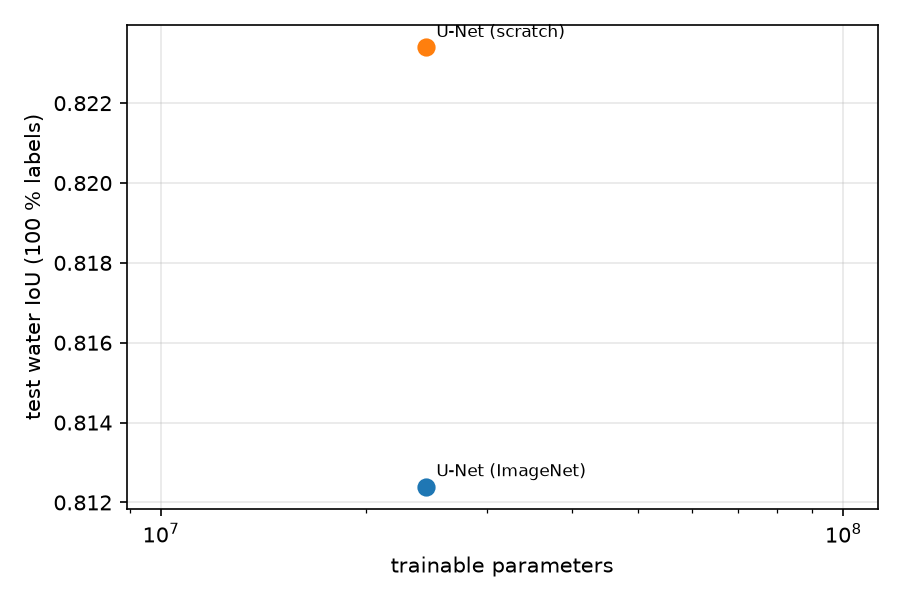
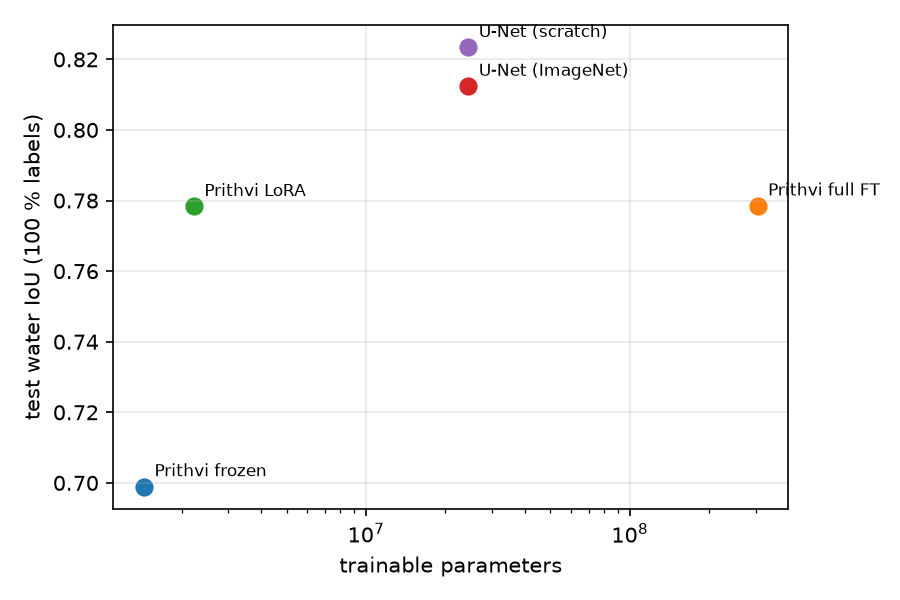
Prithvi label sweep (seed 0) results, figures and notes: U-Net leads at every label fraction

diff --git a/docs/LAB_NOTEBOOK.md b/docs/LAB_NOTEBOOK.md
@@ -67,3 +67,23 @@ Template:
 - Result (`prithvi_full` f=1.0 s0, 305 M trainable, batch 4, 7.2 GB, 1,575 steps, 9.0 GPU-min): **test water IoU 0.779, Bolivia 0.637**.
 - Reading: identical to LoRA in-distribution (0.778 vs 0.779) and 9 points worse on Bolivia. Claim 3 (LoRA recovers full-FT accuracy with <1 % of the parameters) holds at 100 % labels; full FT seems to overfit the training regions. Caveat: full FT ran at batch 4 with backbone lr x0.05, LoRA at batch 8 with x0.5; a small lr sweep for full FT would make the comparison airtight.
 - Full-label ranking (seed 0): U-Net scratch 0.823 > U-Net ImageNet 0.812 > Prithvi LoRA 0.778 = Prithvi full 0.779 > Prithvi frozen 0.699. On Bolivia: ImageNet 0.789 > scratch 0.750 > LoRA 0.725 > full 0.637 > frozen 0.527.
+
+## 2026-09-10, Prithvi label sweep complete (17 local runs, seed 0)
+- Result, test water IoU / Bolivia water IoU:
+
+  | labels | U-Net scratch | U-Net ImageNet | Prithvi frozen | Prithvi LoRA | Prithvi full |
+  |---|---|---|---|---|---|
+  | 100 % | 0.823 / 0.750 | 0.812 / 0.789 | 0.699 / 0.527 | 0.778 / 0.725 | 0.779 / 0.637 |
+  | 25 % | 0.777 / 0.758 | 0.803 / 0.722 | 0.699 / 0.755 | 0.751 / 0.744 | - |
+  | 10 % | 0.803 / 0.770 | 0.822 / 0.787 | 0.686 / 0.674 | 0.734 / 0.751 | - |
+  | 5 % | 0.776 / 0.790 | 0.804 / 0.784 | 0.695 / 0.625 | 0.719 / 0.741 | - |
+
+- Reading (single seed, so ±0.02-0.03 is noise):
+  1. **Claim 1 holds strongly, in the negative direction:** at full labels the foundation model does not merely fail to beat the U-Net, it trails it by 4-5 points in every regime.
+  2. **Claim 2 does not hold down to 5 %:** the U-Net degrades by ~2-5 points from 100 % to 5 %, LoRA by ~6 points. The gap does not close, it widens slightly against Prithvi. On this dataset 13 chips still contain enough water pixels (~1 M) for a CNN.
+  3. **Claim 3 holds:** LoRA (2.2 M) equals full FT (305 M) in-distribution and beats it by 9 points on Bolivia.
+  4. **Claim 4 is unresolved:** Bolivia numbers fluctuate ±0.05 across label fractions for every model, larger than any between-model difference except frozen/full. Seeds 1-2 (running on Colab) are needed; the cloud confound (27 % no-data) probably dominates.
+- Cost: U-Net 3.7-4.5 GPU-min, frozen 9-10, LoRA 13-14, full 9 (batch 4) on the 3070 Ti.
+- Honest framing for the paper: "a small, well-tuned CNN remains the better choice for Sentinel-2 flood mapping on Sen1Floods11, even with 13 labeled chips; the foundation model's advantage, if any, must lie below 5 % labels or in cross-sensor / cross-region transfer that this benchmark does not test." That is a publishable negative result if the seeds and a 1-2 % sweep confirm it, and it is more useful to practitioners than a marginal win.
+- Caveats to close before writing: (a) Prithvi head is a plain FCN on a 14x14 grid; a UNet-style decoder over multiple scales might recover part of the gap (ablation); (b) LoRA rank / targets untested; (c) Prithvi crop 224 vs U-Net crop 224 is matched, but Prithvi's positional grid was pretrained at 224 so this is its comfort zone, not a handicap; (d) dataset-vs-Prithvi normalization stats.
+- Next: seeds from Colab; add fractions 0.02 / 0.01 (needs the batch-size guard); decoder ablation for Prithvi.

diff --git a/README.md b/README.md
@@ -21,8 +21,8 @@ The experiment matrix is fixed up front (see [docs/PLAN.md](docs/PLAN.md)) so re
 - [x] Repository skeleton, config-driven training loop, metrics, tests
 - [x] Dataset downloaded and band statistics computed (`scripts/compute_stats.py`)
 - [x] U-Net baselines + label sweep (seed 0): scratch 0.823 / ImageNet 0.812 test water IoU at 100 % labels; still 0.78–0.80 at 5 % (`docs/figures/fig1_iou_vs_labels.png`)
-- [ ] Prithvi frozen / LoRA / full (weeks 4–6)
-- [ ] Low-label sweep + Bolivia OOD (weeks 7–9)
+- [x] Prithvi frozen / LoRA / full at 100 % labels (seed 0): 0.699 / 0.778 / 0.779 test water IoU; LoRA beats full FT on Bolivia (0.725 vs 0.637)
+- [~] Low-label sweep: seed 0 done for all models down to 5 % (U-Net still ahead at every fraction); seeds 1–2 and 2 % / 1 % fractions pending
 - [ ] Write-up / preprint (weeks 10–12)
 
 The Prithvi wrapper (`src/eoflood/models/prithvi.py`) was verified against terratorch 1.2.13 on 10 Sep (weights load, 224 and 512 inputs, frozen / LoRA / full modes: 1.4 M / 2.2 M / 305 M trainable parameters). Training runs on a local RTX 3070 Ti (8 GB); the U-Net baseline takes ~4 GPU-minutes with the in-RAM chip cache.
